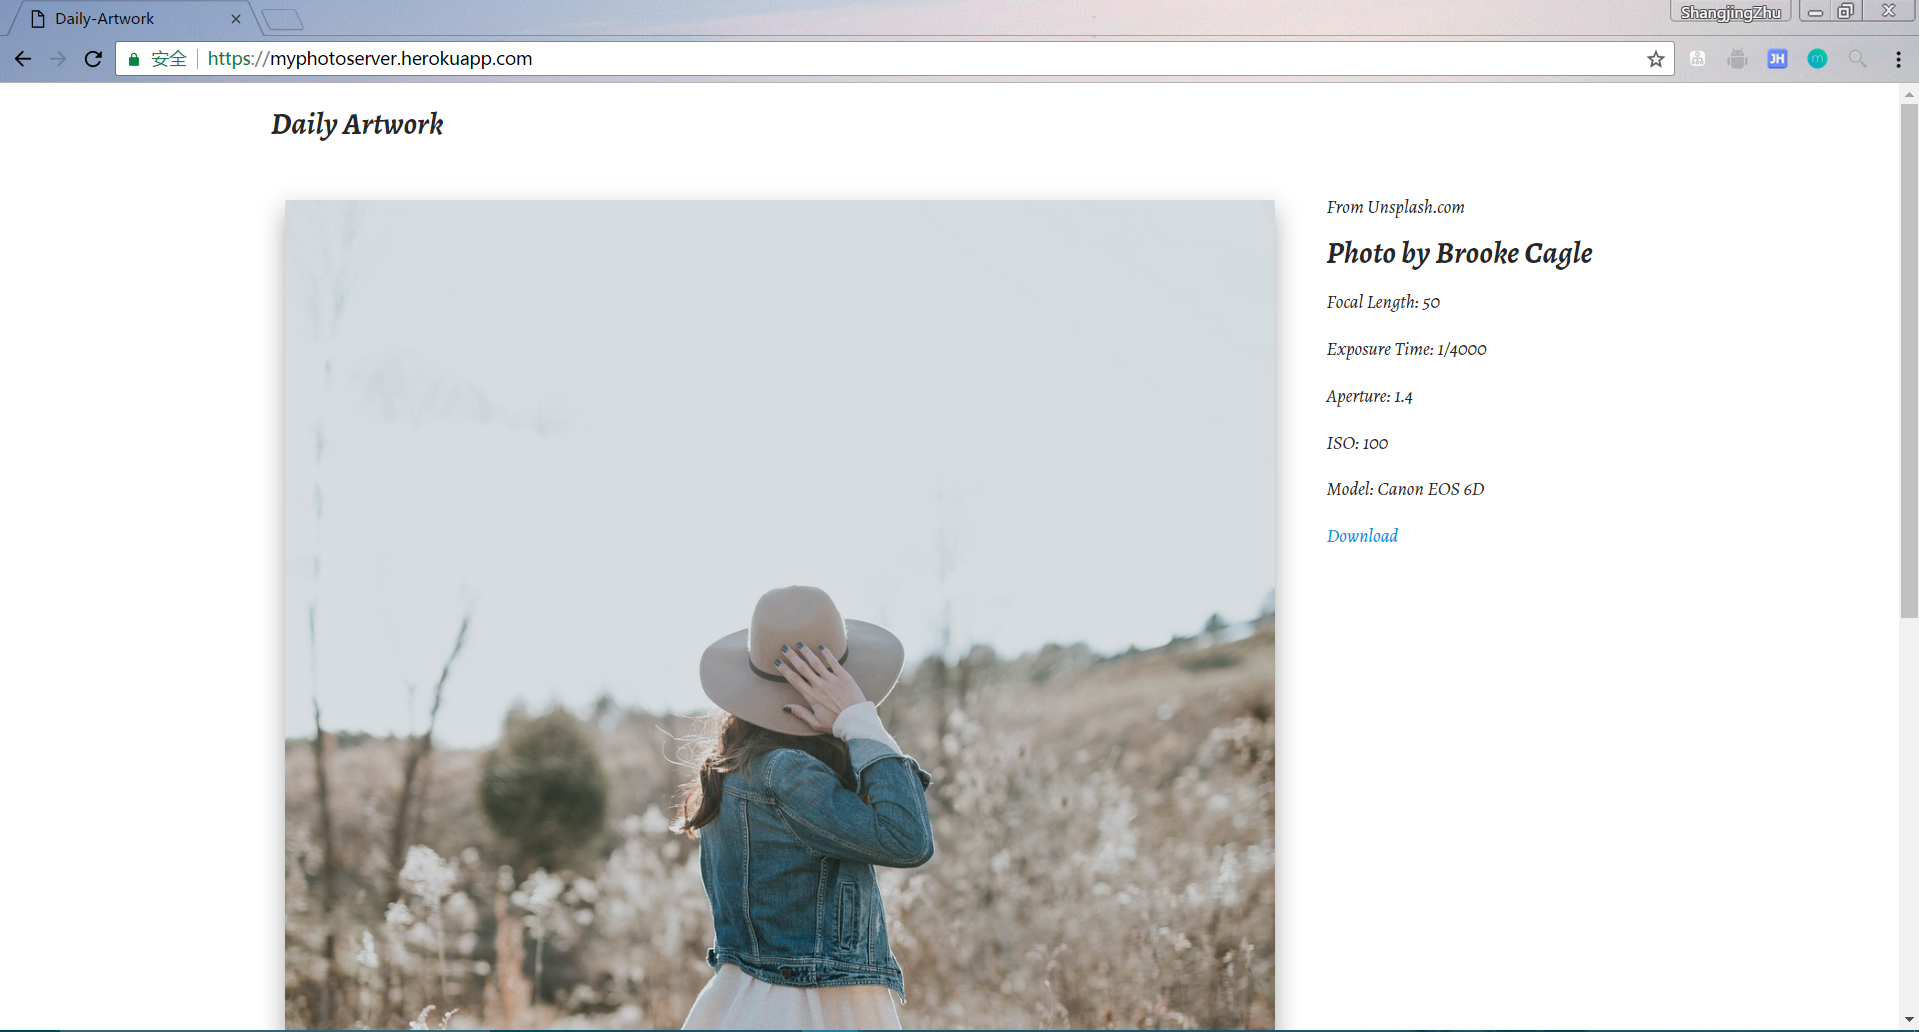
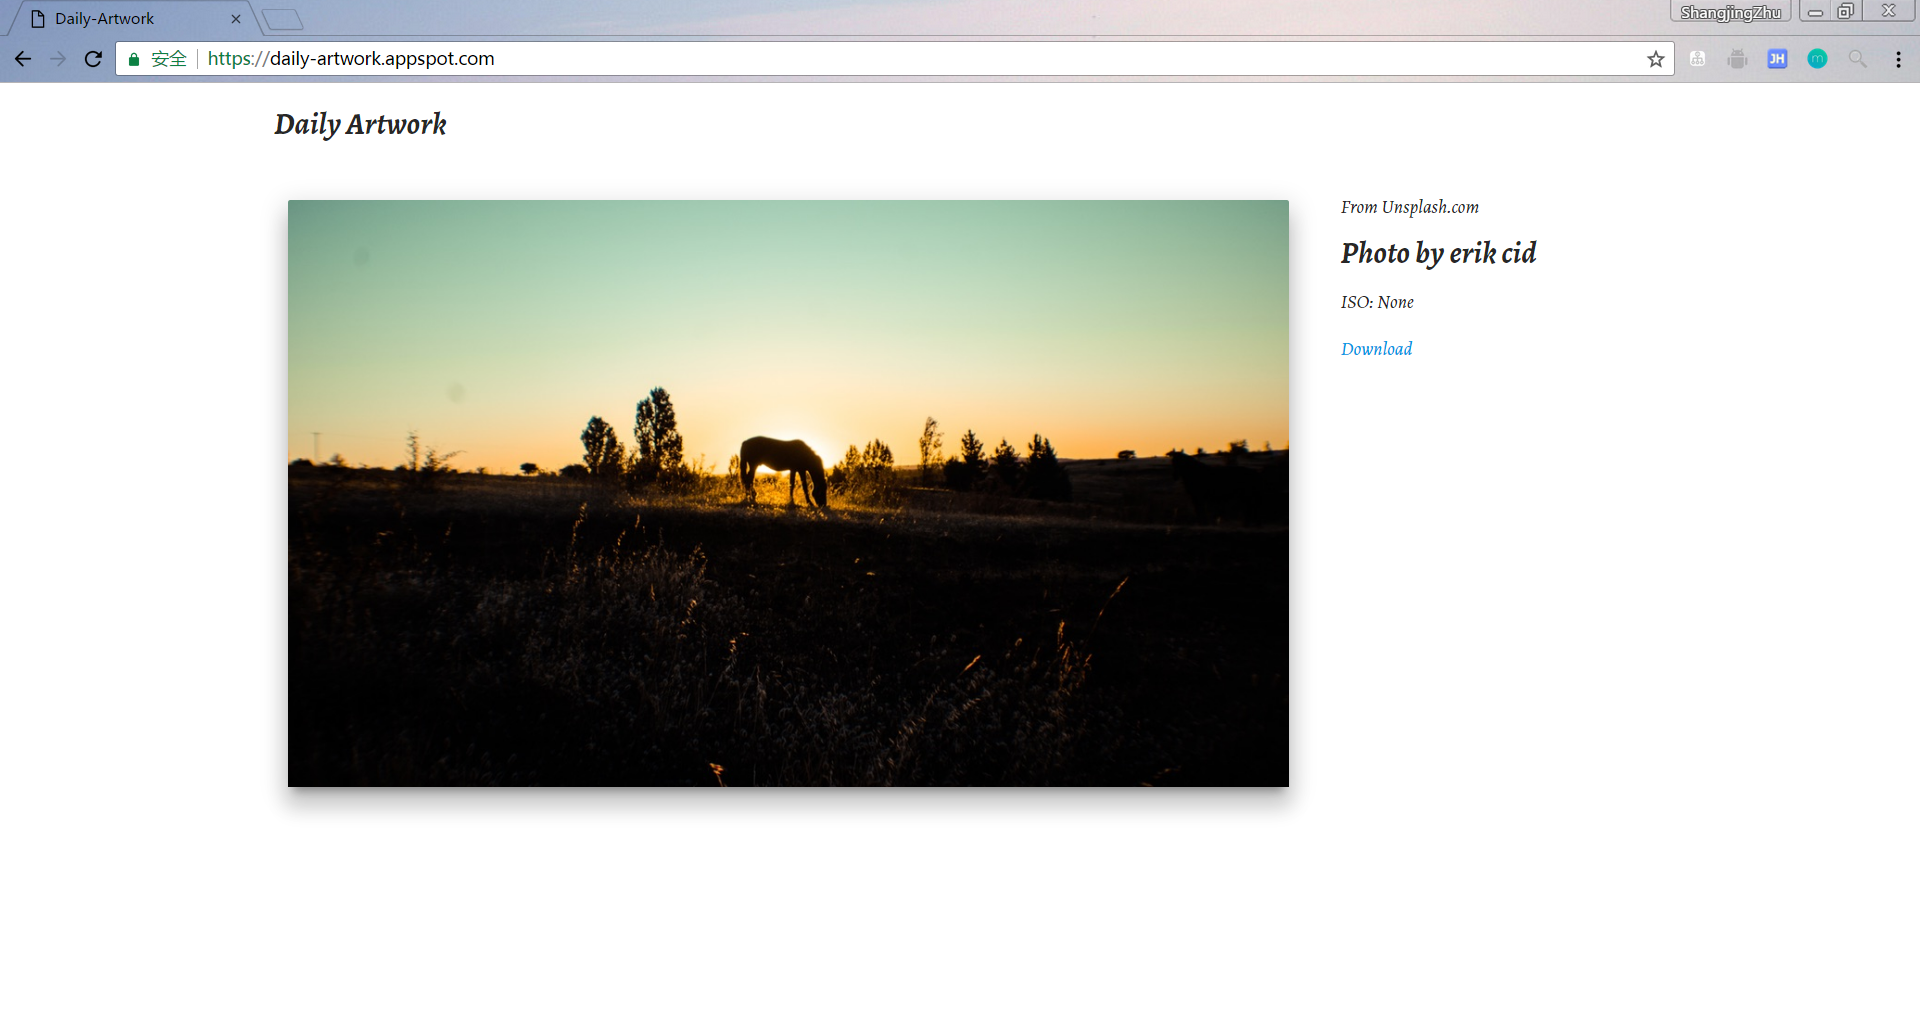
Replace heroku cloud platform with google cloud platform

diff --git a/vendor.py b/vendor.py
@@ -1,0 +1,71 @@
+#
+# Copyright 2014 Jon Wayne Parrott, [proppy], Michael R. Bernstein
+#
+# Licensed under the Apache License, Version 2.0 (the "License");
+# you may not use this file except in compliance with the License.
+# You may obtain a copy of the License at
+#
+#     http://www.apache.org/licenses/LICENSE-2.0
+#
+# Unless required by applicable law or agreed to in writing, software
+# distributed under the License is distributed on an "AS IS" BASIS,
+# WITHOUT WARRANTIES OR CONDITIONS OF ANY KIND, either express or implied.
+# See the License for the specific language governing permissions and
+# limitations under the License.
+#
+
+# Notes:
+# - Imported from https://github.com/jonparrott/Darth-Vendor/.
+# - Added license header.
+# - Renamed `darth.vendor` to `vendor.add` to match upcoming SDK interface.
+# - Renamed `position` param to `index` to match upcoming SDK interface.
+# - Removed funny arworks docstring.
+
+import os.path
+import site
+import sys
+
+
+def add(folder, index=1):
+    """
+    Adds the given folder to the python path. Supports namespaced packages.
+    By default, packages in the given folder take precedence over site-packages
+    and any previous path manipulations.
+
+    Args:
+      folder: Path to the folder containing packages, relative to ``os.getcwd()``
+      position: Where in ``sys.path`` to insert the vendor packages. By default
+        this is set to 1. It is inadvisable to set it to 0 as it will override
+        any modules in the current working directory.
+    """
+
+    # Check if the path contains a virtualenv.
+    site_dir = os.path.join(folder, 'lib', 'python' + sys.version[:3], 'site-packages')
+    if os.path.exists(site_dir):
+        folder = site_dir
+    # Otherwise it's just a normal path, make it absolute.
+    else:
+        folder = os.path.join(os.path.dirname(__file__), folder)
+
+    # Use site.addsitedir() because it appropriately reads .pth
+    # files for namespaced packages. Unfortunately, there's not an
+    # option to choose where addsitedir() puts its paths in sys.path
+    # so we have to do a little bit of magic to make it play along.
+
+    # We're going to grab the current sys.path and split it up into
+    # the first entry and then the rest. Essentially turning
+    #   ['.', '/site-packages/x', 'site-packages/y']
+    # into
+    #   ['.'] and ['/site-packages/x', 'site-packages/y']
+    # The reason for this is we want '.' to remain at the top of the
+    # list but we want our vendor files to override everything else.
+    sys.path, remainder = sys.path[:1], sys.path[1:]
+
+    # Now we call addsitedir which will append our vendor directories
+    # to sys.path (which was truncated by the last step.)
+    site.addsitedir(folder)
+
+    # Finally, we'll add the paths we removed back.
+    # The final product is something like this:
+    #   ['.', '/vendor-folder', /site-packages/x', 'site-packages/y']
+    sys.path.extend(remainder)

diff --git a/src/views.py b/src/views.py
@@ -5,47 +5,53 @@ from src.models import Artwork
 from src.utils import today, yesterday
 
 
-@artwork.route('/photo', methods=['GET'])
-def photo():
-    art = Artwork.query.filter_by(date_time=today()).first()
-    if art is None:
-        art = Artwork.query.filter_by(date_time=yesterday()).first()
-        if art is None:
-            data = {'result': None}
-            return jsonify(data)
-
-    data = {
-        'photo_id': art.photo_id,
+def create_data(art):
+    return {
         'date_time': art.date_time,
         'author': art.author,
         'model': art.model,
+        'width': art.width,
+        'height': art.height,
         'exposure_time': art.exposure_time,
         'aperture': art.aperture,
         'focal': art.focal,
         'iso': art.iso,
         'fullUri': art.fullUri,
-        'regularUri': art.regularUri
+        'html': art.html
     }
+
+
+@artwork.route('/photo', methods=['GET'])
+def photo():
+    art = Artwork.all().filter('date_time', today()).get()
+    if art is None:
+        art = Artwork.all().filter('date_time', yesterday()).get()
+        if art is None:
+            data = {'result': None}
+            return jsonify(data)
+
+    data = create_data(art)
 
     return jsonify(data)
 
 
 @artwork.route('/photos/all', methods=['GET'])
 def list_all():
-    artworks = Artwork.query.all()
+    artworks = Artwork.all()
     data = []
     for art in artworks:
         data.append({
-            'photo_id': art.photo_id,
             'date_time': art.date_time,
             'author': art.author,
             'model': art.model,
+            'width': art.width,
+            'height': art.height,
             'exposure_time': art.exposure_time,
             'aperture': art.aperture,
             'focal': art.focal,
             'iso': art.iso,
             'fullUri': art.fullUri,
-            'regularUri': art.regularUri
+            'html': art.html
         })
     return jsonify(data)
 
@@ -53,20 +59,21 @@ def list_all():
 @artwork.route("/photos/page/<int:page>", methods=['GET'])
 def get_page_data(page):
     offset = (page - 1) * 20
-    artworks = Artwork.query.limit(20).offset(offset)
+    artworks = Artwork.all().fetch(limit=20, offset=offset)
     data = []
     for art in artworks:
         data.append({
-            'photo_id': art.photo_id,
             'date_time': art.date_time,
             'author': art.author,
             'model': art.model,
+            'width': art.width,
+            'height': art.height,
             'exposure_time': art.exposure_time,
             'aperture': art.aperture,
             'focal': art.focal,
             'iso': art.iso,
             'fullUri': art.fullUri,
-            'regularUri': art.regularUri
+            'html': art.html
         })
     if len(data) == 0:
         data = [{

diff --git a/src/models.py b/src/models.py
@@ -1,23 +1,27 @@
-from src import db
+from google.appengine.ext import db
+
+from src.utils import today
 
 
 class Artwork(db.Model):
-    __tablename__ = 'artwork'
-    id = db.Column(db.Integer, primary_key=True)
-    date_time = db.Column(db.String, index=True)
-    created_at = db.Column(db.String)
-    updated_at = db.Column(db.String)
-    photo_id = db.Column(db.String)
-    author = db.Column(db.String)
-    model = db.Column(db.String)
-    exposure_time = db.Column(db.String)
-    aperture = db.Column(db.String)
-    focal = db.Column(db.String)
-    iso = db.Column(db.String)
-    fullUri = db.Column(db.String)
-    regularUri = db.Column(db.String)
+    date_time = db.StringProperty()
+    author = db.StringProperty()
+    model = db.StringProperty()
+    exposure_time = db.StringProperty()
+    aperture = db.StringProperty()
+    focal = db.StringProperty()
+    iso = db.StringProperty()
+    fullUri = db.StringProperty()
+    regularUri = db.StringProperty()
+    html = db.StringProperty()
+    width = db.IntegerProperty()
+    height = db.IntegerProperty()
 
-    def save_to_db(self, artwork):
-        db.session.add(artwork)
-        db.session.commit()
-        print("save success...")
+    def save(self, artwork):
+        art = Artwork.all().filter('date_time', today()).get()
+        print("today: " + today())
+        if art is None:
+            artwork.put()
+            print("save success......")
+        else:
+            print("Can't insert data to datastore, the datastore already has data")

diff --git a/src/api.py b/src/api.py
@@ -1,7 +1,7 @@
 import json
 import os
 
-import requests
+from google.appengine.api import urlfetch
 from flask import abort
 
 from src.models import Artwork
@@ -17,16 +17,16 @@ class Api:
         }
 
     def fetch_photo(self):
-        resp = requests.get(url=self.url, headers=self.headers)
-        data = json.loads(resp.text)
+        resp = urlfetch.fetch(url=self.url, headers=self.headers)
+        data = json.loads(resp.content)
         if 200 <= resp.status_code < 300:
             artwork = Artwork()
             artwork.date_time = today()
-            artwork.created_at = data['created_at']
-            artwork.updated_at = data['updated_at']
             user = data['user']
             artwork.author = user['name']
-            artwork.photo_id = data['id']
+            artwork.width = data['width']
+            artwork.height = data['height']
+            artwork.html = data['links']['html']
             urls = data['urls']
             artwork.regularUri = urls['regular']
             artwork.fullUri = urls['full']
@@ -35,7 +35,7 @@ class Api:
             artwork.exposure_time = exif['exposure_time']
             artwork.focal = exif['focal_length']
             artwork.model = exif['model']
-            artwork.iso = exif['iso']
-            artwork.save_to_db(artwork)
+            artwork.iso = str(exif['iso'])
+            artwork.save(artwork)
         elif resp.status_code >= 300:
             abort(resp.status_code, 'Error processing unspalsh photo.')

diff --git a/manage.py b/manage.py
@@ -1,35 +1,21 @@
 import os
 
-from flask_migrate import Migrate, MigrateCommand
 from flask_script import Manager, Shell
-from tornado.httpserver import HTTPServer
-from tornado.ioloop import IOLoop
-from tornado.wsgi import WSGIContainer
 
 from src import create_app
-from src import db
 from src.models import Artwork
 
 
 app = create_app(os.getenv('APP_ENVIRONMENT', 'dev'))
 manager = Manager(app)
-migrate = Migrate(app, db)
 
 
 def make_shell_context():
-    return dict(app=app, db=db, artwork=Artwork)
+    return dict(app=app, artwork=Artwork)
 
 
 manager.add_command('shell', Shell(make_shell_context()))
-manager.add_command('db', MigrateCommand)
 
 
 if __name__ == '__main__':
-    config = os.getenv('APP_ENVIRONMENT', 'dev')
-    if config == 'dev' or config == 'test':
-        manager.run()
-    else:
-        port = int(os.environ.get('PORT', 5000))
-        http_server = HTTPServer(WSGIContainer(app))
-        http_server.listen(port=port, address='0.0.0.0')
-        IOLoop.instance().start()
+    manager.run()

diff --git a/src/__init__.py b/src/__init__.py
@@ -1,28 +1,23 @@
 from flask import Flask, Blueprint
-from flask_sqlalchemy import SQLAlchemy
 
 from config import config
 
 app = Flask(__name__)
-db = SQLAlchemy(app)
 artwork = Blueprint('artwork', __name__)
 home = Blueprint('home', __name__)
+cron = Blueprint('cron', __name__)
 
 from src import views
 from src import main
+from src import worker
 
 
 def create_app(config_name):
     app.config.from_object(config[config_name])
     config[config_name].init_app(app)
-    app.config['SQLALCHEMY_DATABASE_URI'] = config[config_name].DATABASE_URI
-
-    db.create_all()
 
     app.register_blueprint(artwork)
     app.register_blueprint(home)
-
-    from src.worker import scheduler_worker
-    scheduler_worker()
+    app.register_blueprint(cron)
 
     return app

diff --git a/src/main.py b/src/main.py
@@ -2,13 +2,15 @@ from flask import render_template
 
 from src import home
 from src.models import Artwork
-from src.utils import today
+from src.utils import today, yesterday
 
 
 @home.route('/')
 def home():
-    artwork = Artwork.query.filter_by(date_time=today()).first()
-    if artwork is not None:
-        return render_template('home.html', artwork=artwork)
-    else:
-        return "Hello .... world !!!!!"
+    artwork = Artwork.all().filter('date_time', today()).get()
+    if artwork is None:
+        artwork = Artwork.all().filter('date_time', yesterday()).get()
+        if artwork is None:
+            return "Hello .... world !!!!!"
+
+    return render_template('home.html', artwork=artwork)

diff --git a/test/Test.py b/test/Test.py
@@ -3,6 +3,8 @@ from src import create_app
 import json
 import datetime
 import os
+from src.models import Artwork
+from google.appengine.ext import db
 
 
 class JsonTest(unittest.TestCase):
@@ -26,3 +28,7 @@ class JsonTest(unittest.TestCase):
         yesterday_date = today_date - delta_date
         formatStr = '%Y%m%d'
         self.assertEqual("20170310", yesterday_date.strftime(formatStr))
+
+    def test_gdb(self):
+        artwork = Artwork(date_time="20170313", author="Json")
+        artwork.put()

diff --git a/src/worker.py b/src/worker.py
@@ -1,8 +1,7 @@
-from apscheduler.schedulers.tornado import TornadoScheduler
+from src import cron
 
 from src.api import Api
 
-scheduler = TornadoScheduler()
 api = Api()
 
 
@@ -10,6 +9,7 @@ def fetch_photo():
     api.fetch_photo()
 
 
+@cron.route('/worker', methods=['GET'])
 def scheduler_worker():
-    scheduler.add_job(fetch_photo, 'cron', day='1-31', hour=0, minute=0)
-    scheduler.start()
+    fetch_photo()
+    return 'fetch photo...'

diff --git a/config.py b/config.py
@@ -17,7 +17,8 @@ class DevConfig(Config):
 
 class ProductionConfig(Config):
     # DATABASE_URI = os.environ['DATABASE_URL']
-    DATABASE_URI = os.getenv('DATABASE_URL', 'sqlite:///' + os.path.join(baseDir, 'artwork.sqlite'))
+    # DATABASE_URI = os.getenv('DATABASE_URL', 'sqlite:///' + os.path.join(baseDir, 'artwork.sqlite'))
+    pass
 
 
 class TestConfig(Config):

diff --git a/appengine_config.py b/appengine_config.py
@@ -1,0 +1,4 @@
+from google.appengine.ext import vendor
+
+# Add any libraries installed in the "lib" folder.
+vendor.add('lib')
